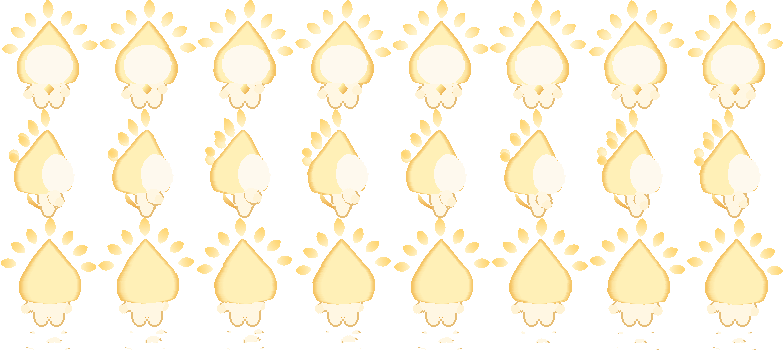
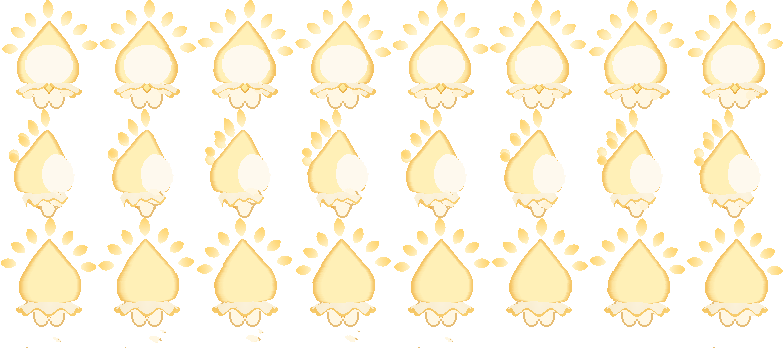
お手本に合わせてトモリとツキミのケープを整える

diff --git a/tools/art/spirit3d/light_dark.py b/tools/art/spirit3d/light_dark.py
@@ -6,8 +6,9 @@
 折り返しは額で高さ約56ドット、うなじで約32ドット。幅12〜16ドットの
 帯を頭に回し、その上辺に丸い紫の布をつなぐ。布は後頭部の中央近くで
 帯の上にたれ、うなじの高さで直径約18ドットの房をとめる。
-ケープは首もとから幅約64ドットに広がり、肩と背中を一枚の布で包む。
-胸の前は開いて三日月で留め、裾は丸い波形にする。
+ケープは首もとから幅約65ドットに広がり、肩と背中を一枚の布で包む。
+トモリは金縁のクリーム色の布を胸のしずくで、ツキミは淡い紫の布を
+三日月で留める。背中の裾は中央と左右に丸いひだが見える形にする。
 """
 from math import pi
 import numpy as np
@@ -115,12 +116,14 @@ def chest_mark(body, dark):
         mask = outer & ~inner
         pigment = np.tile(rgb('#e8d5ed'),(mask.sum(),1))
     else:
-        depth = (z-19)/6.3
-        mask = np.abs(x)/5.1+np.abs(depth) <= 1
-        pigment = tones(rgb('#ecad48'),rgb('#fff2ad'),
-                        np.clip(.58+.45*depth[mask]-.10*x[mask],0,1))
+        depth = (z-20)/6.3
+        edge = np.abs(x)/5.1+np.abs(depth)
+        mask = edge <= 1
+        glint = .59+.35*depth[mask]-.08*x[mask]
+        inside = np.clip((.97-edge[mask])/.37,0,1)
+        pigment = tones(rgb('#e7a535'),rgb('#fff1aa'),np.clip(.24*glint+.76*inside,0,1))
     at = surface_points[mask].copy()
-    at[:,1] += 1.9 if dark else .32
+    at[:,1] += 1.9
     return at,pigment
 
 
@@ -183,28 +186,37 @@ def night_cap():
     return texture(vertices.astype(float)*pitch,colors[first])
 
 
-def mantle():
-    """三日月の留め具から肩と背中を一枚で包む短いケープ。"""
+def mantle(dark):
+    """胸の留め具から肩と背中を一枚で包む短いケープ。"""
     drop = np.linspace(0,1,115)[:,None]
     around = np.linspace(0,1,560)
-    opening = .035+.36*drop**1.35
+    opening = .02+.375*drop**2
     angle = opening+(2*pi-2*opening)*around
     side,front = np.sin(angle),np.cos(angle)
 
-    # 襟から肩へ広げ、六つの丸い山が裾につながる。
-    lobe = .5+.5*np.cos(6*angle)
+    # 肩からすそへ広げ、背中の中央と左右のひだを丸く落とす。
+    back = np.maximum(-front,0)
+    rear = np.clip(2.4*back,0,1)
+    lobe = .5+.5*((1-rear)*np.cos(6*angle)+rear*np.cos(8*angle))
     ripple = lobe*drop**2.4
-    x = (9.4+22.2*drop+1.4*ripple)*side
+    x = (9.4+23.2*drop+1.4*ripple)*side
     y = (11.5+9.8*drop+.9*ripple)*front
     y += drop*(4.5*side**2-.7)
     # 背中の布はしっぽのつけ根を覆い、下からしっぽを出す。
-    y -= 9*np.maximum(-front,0)**5*np.sin(pi*drop)**1.5
-    hem = 16.3+1.1*front-5*lobe
+    y -= 9*back**5*np.sin(pi*drop)**1.5
+    hem = 17.5+1.1*front-(5+2*rear)*lobe
     z = 28.7+(hem-28.7)*drop**1.3
     cloth = np.stack((x,y,z),axis=-1).reshape(-1,3)
 
-    shade = np.clip(.69-.26*drop+.15*lobe*drop-.09*side+.035*front,0,1)
-    color = tones(rgb('#875995'),rgb('#c9a6d2'),shade.ravel())
+    shade = np.clip(.71-.23*drop+.14*lobe*drop-.09*side+.035*front,0,1)
+    if dark:
+        color = tones(rgb('#885795'),rgb('#c7a4d0'),shade.ravel())
+    else:
+        color = tones(rgb('#f3e3bd'),rgb('#fff9e9'),shade.ravel())
+        # 胸の開きと裾の端に細い金色の縁を回す。
+        rim = (drop >= .90) | ((np.minimum(around,1-around) < .012) & (drop > .23))
+        color[rim.ravel()] = tones(rgb('#ecb148'),rgb('#ffdf88'),shade[rim])
+
     return cloth,color
 
 
@@ -224,11 +236,11 @@ class LightDark(Spirit):
             self.body_color = rgb('#584466')
             self.arm_color = rgb('#847392')
             self.far_leg_color = rgb('#4c385a')
-            self.cape = mantle()
         else:
             self.body_color = rgb('#fff7e3')
             self.arm_color = rgb('#fff7e3')
             self.far_leg_color = rgb('#f4e5c6')
+        self.cape = mantle(dark)
         self.chest = chest_mark(self.solid['body'],dark)
         self.hood(dark)
         self.tail = self.make_tail(dark)

diff --git a/tools/art/spirit3d/build_handoff.py b/tools/art/spirit3d/build_handoff.py
@@ -106,7 +106,7 @@ def still_sheet(spirits, out):
             image = image.crop((0,10,144,133)).resize(cell,Image.Resampling.NEAREST)
             x,y = j*cell[0], i*(cell[1]+20)
             draw.rectangle((x+3,y+21,x+cell[0]-4,y+cell[1]+16),
-                           fill=('#f4ebdb','#ede5f2')[i])
+                           fill=('#ede8e2','#ede5f2')[i])
             space = '　' if japanese else '  '
             draw.text((x+15,y+1),f'{names[i]}{space}{label}',font=font,fill='#4a4149')
             sheet.paste(image,(x,y+20),image)

diff --git a/handoff/from-gpt.md b/handoff/from-gpt.md
@@ -37,9 +37,9 @@
 - 持ち主の見本を元に3Dで組んだ。水の精霊と同じ顔、体、手足、骨と、共通の表情チップを使った。
 - 新しい設定画に合わせ、トモリの頭巾に金色の縁をつけ、先のとがった七つの光を横からも順に見えるように並べた。
 - ツキミは丸い紫のナイトキャップと淡い桃紫の折り返しにした。縁は額からうなじへ回り、布は後頭部を覆って、背面中央近くの房まで続く。正面の房は頭の後ろにかくれる。
-- ツキミに、首もとから肩と背中を一枚で包む淡い紫のケープを付けた。胸もとは開いて三日月で留め、裾は丸い波形にした。しっぽのつけ根を布が覆う。
+- 2体のケープは首もとから肩と背中を一枚で包み、背中の裾は中央と左右を丸く下げた。トモリはクリーム色に金の縁を入れて胸のしずくで留め、ツキミは淡い紫の布を三日月で留めた。
 - [正面・右・背面・左](files/H-4/character-views.png) ・ [歩く動き](files/H-4/walk.gif) ・ [動きの見本](files/H-4/motion-views.png)
-- `parts/` に頭巾・飾り・顔・しっぽなどの透過 PNG、`motions/` に11動作 × 2属性の WebP を置いた。各動作のシートは正面・横・後ろの順。全552コマが書き出され、正面と横から写した帽子を含む19点の部品の大きさと透過も確認した。目の位置、手の位置、絵の基準は [sprites.json](files/H-4/sprites.json)。
+- `parts/` に頭巾・飾り・顔・しっぽなどの透過 PNG、`motions/` に11動作 × 2属性の WebP を置いた。各動作のシートは正面・横・後ろの順。全552コマが書き出され、2体のケープを含む20点の部品の大きさと透過も確認した。目の位置、手の位置、絵の基準は [sprites.json](files/H-4/sprites.json)。
 - `python3 tools/art/spirit3d/build_handoff.py handoff/files/H-4` で同じ絵を作る。動作名を指定して別の動きも出せる。 `--all` で全動作を写す。
 - 水と風の精霊の既存の歩きは、変更前と3方向で同じ絵になることを確認した。ゲームでの表示とチップ登録は、絵の確認後に残っている。
 
